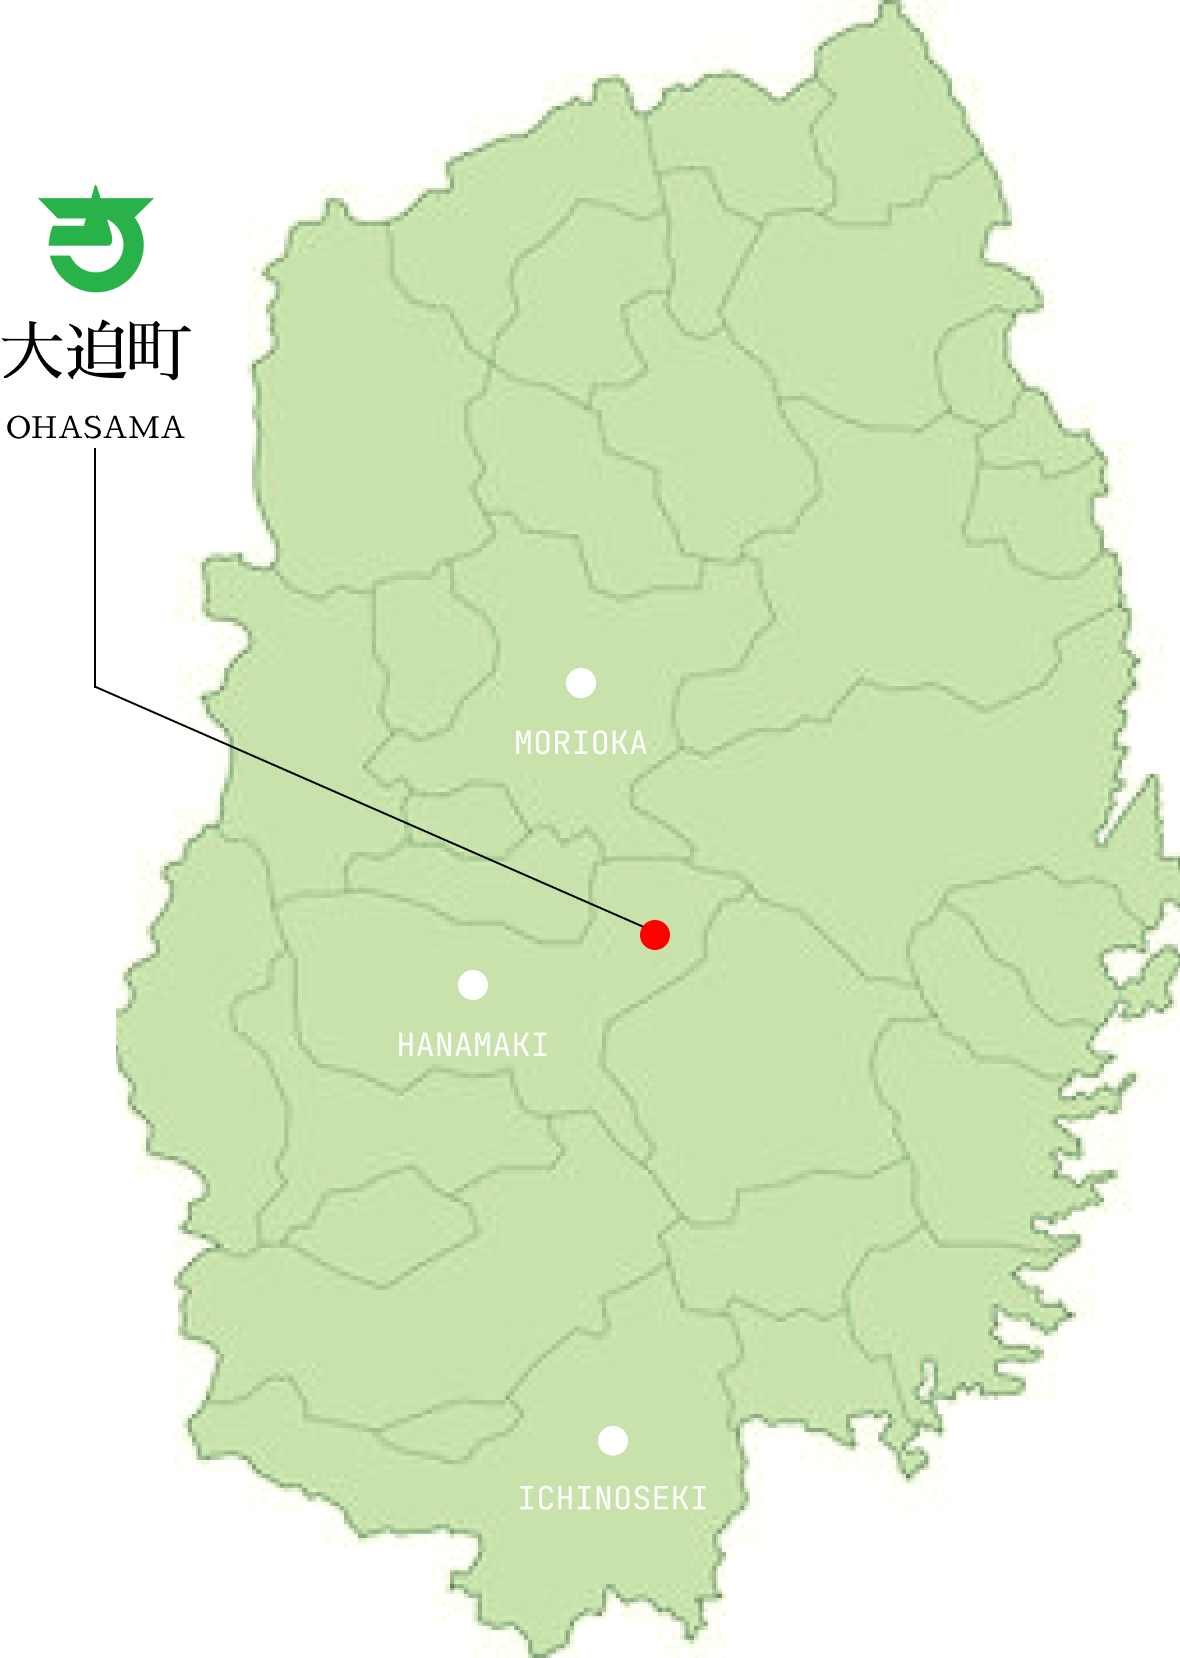
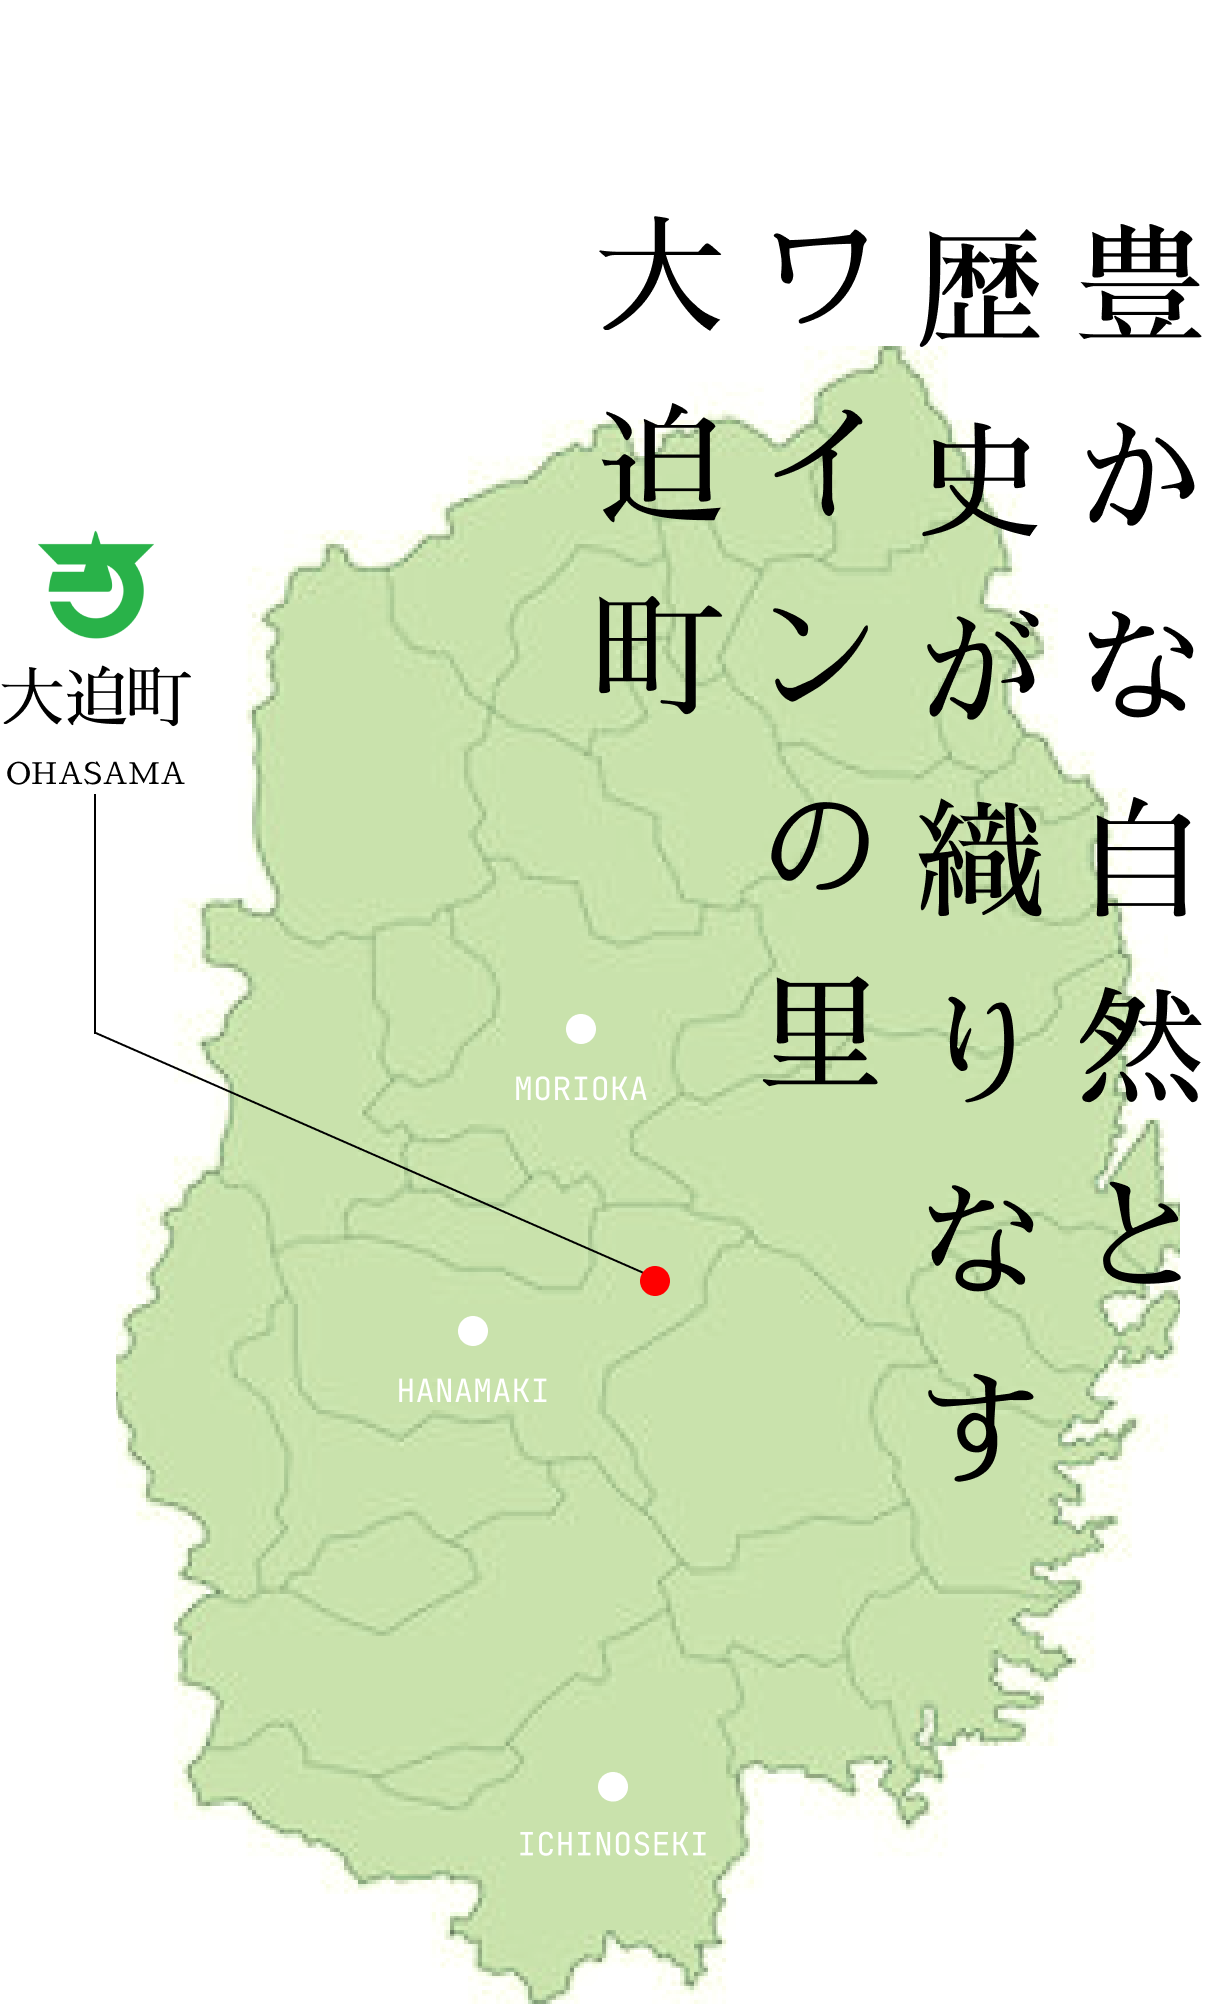
indexの追記

diff --git a/html/index.html b/html/index.html
@@ -5,9 +5,15 @@
     <meta charset="UTF-8">
     <meta name="viewport" content="width=device-width, initial-scale=1.0">
 
-    <link rel="stylesheet" href="/css/all-sytle.css">
-    <link rel="stylesheet" href="/css/index.css">
-    <link rel="stylesheet" href="/css/ham.style.css">
+    <link rel="stylesheet" href="../css/all-sytle.css">
+    <link rel="stylesheet" href="../css/index.css">
+    <link rel="stylesheet" href="../css/ham.style.css">
+
+    <!-- fontのリンク -->
+    <link rel="preconnect" href="https://fonts.googleapis.com">
+    <link rel="preconnect" href="https://fonts.gstatic.com" crossorigin>
+    <link href="https://fonts.googleapis.com/css2?family=Shippori+Mincho:wght@400;500;600;700;800&display=swap"
+        rel="stylesheet">
     <title>エーデルワイン・サポート</title>
 </head>
 
@@ -66,22 +72,55 @@
 
     </header>
 
+    <!-- 画像js -->
     <div class="animation_back">
         <img src="/img/back.png" alt="">
     </div>
 
+    <!-- 線 -->
+    <hr class="hr">
+
+    <!-- メイン１ -->
     <div class="main">
-        <div class="main_p">
-            <p>大迫町</p>
-            <p>ワインの里</p>
-            <p>歴史が織りなす</p>
-            <p>豊かな自然と</p>
+
+        <div class="main1_div">
+            <img src="../img/main/ohasama.png" width="500px">
+            <div class="main1_p">
+                <p><span class="span_tag">大迫町</span>（おおはさままち）は、<br>
+                    平成17年（2005年）まで岩手県<span class="span_tag">稗貫群</span>にあった町。<br> <br>
+                    岩手県内でも有数の<span class="span_tag">ワイン</span>の産地として知られ、<br>
+                    特産の葡萄を使った美味しいワインが楽しめます。<br><span class="span_tag">大迫ワイナリー</span>は、多くの観光客に訪れる価値のある <br>
+                    スポットとなっています。 <br><br>
+                    <span class="span_tag">豊かな自然</span>とそこで育まれてきた<span class="span_tag">文化</span>が共存する大迫町。<br>
+                    <span class="span_tag">ワイン</span>に<span class="span_tag">グルメ</span>、そして<span
+                        class="span_tag">アクティビティ</span>まで。<br>
+                    訪れるたびに<span class="span_tag">新たな魅力</span>に出会えるこの町に、ぜひお越しください。
+                </p>
+                <div class="main1_a">
+                    <p>◆ワインについて(<a href="https://edelwein.co.jp/">エーデルワイン</a>)</p>
+                </div>
+            </div>
         </div>
-        <img src="/img/main/Ohasama.png" class="imgup" width="15%">
-        <img src="/img/main/IWATE2.png" class="main1" width="25%">
+
+        <div class="main1_img">
+            <img src="../img/main/iwate.png" width="425px">
+        </div>
+
     </div>
 
+    <!-- メイン２ -->
+    <div class="main2">
+        <img src="../img/main2/ツル.png" width="320px">
+        <div class="youtube">
+            <iframe width="850px" height="450px"
+                src="https://www.youtube.com/embed/lDgLsZaklJc?si=oZNLzQQUAj5ctAPr&amp;start=220"
+                title="YouTube video player" frameborder="0"
+                allow="accelerometer; autoplay; clipboard-write; encrypted-media; gyroscope; picture-in-picture; web-share"
+                referrerpolicy="strict-origin-when-cross-origin" allowfullscreen></iframe>
+        </div>
+    </div>
 
+    <p class="title-border">目的で探す</p>
 
     <script type="text/javascript" src="/js/ham.js"></script>
 </body>

diff --git a/css/index.css b/css/index.css
@@ -1,5 +1,7 @@
 @charset "utf-8";
 
+
+/* 画像js */
 .animation_back {
     text-align: center;
 }
@@ -9,28 +11,86 @@
     height: 100%;
 }
 
+
+/* hrのリセットcss */
+hr {
+    height: 0;
+    margin: 0;
+    padding: 0;
+    border: 0;
+}
+
+.hr {
+    margin-top: 30px;
+    border-top: 9px double #B8A36C;
+}
+
+
+/**  main1  **/
 .main {
-    text-align: center;
-}
-
-.main p {
-    -ms-writing-mode: tb-rl;
-    writing-mode: vertical-rl;
-    font-size: 50px;
-}
-
-.main_p {
     display: flex;
 }
 
-.main1 {
-    position: relative;
+.main1_div img {
+    margin-top: 100px;
+    margin-left: 140px;
+    position: absolute;
 }
 
-.main img.imgup {
-    margin-top: 165px;
-    padding-left: 135px;
+.main1_p {
+    margin-top: 330px;
+    margin-left: 150px;
+}
+
+.main1_p p {
+    font-weight: 600;
+}
+
+.main1_a {
+    margin-top: 50px;
+}
+
+.main1_img {
+    margin-left: 80px;
+}
+
+.span_tag {
+    color: #63173B;
+}
+
+/* main2 */
+
+.main2 img {
+    margin-top: 110px;
     position: absolute;
-    transform: translate(-50%, -50%);
-    color: #fff;
+}
+
+/* main2のyoutube */
+.youtube {
+    position: relative;
+    padding-top: 140px;
+    text-align: center;
+}
+
+/* titleの線 */
+.title-border {
+    font-size: 33px;
+    display: flex;
+    align-items: center;
+    margin-top: 100px;
+}
+
+.title-border:before,
+.title-border:after {
+    content: "";
+    flex-grow: 1;
+    border-top: 9px double #B8A36C;
+}
+
+.title-border:before {
+    margin-right: 3rem;
+}
+
+.title-border:after {
+    margin-left: 3rem;
 }

diff --git a/html/hotel.html b/html/hotel.html
@@ -1,0 +1,24 @@
+<!DOCTYPE html>
+<html lang="ja">
+
+<head>
+    <meta charset="UTF-8">
+    <meta name="viewport" content="width=device-width, initial-scale=1.0">
+
+    <link rel="stylesheet" href="../css/all-sytle.css">
+    <link rel="stylesheet" href="../css/ham.style.css">
+
+
+    <!-- fontのリンク -->
+    <link rel="preconnect" href="https://fonts.googleapis.com">
+    <link rel="preconnect" href="https://fonts.gstatic.com" crossorigin>
+    <link href="https://fonts.googleapis.com/css2?family=Shippori+Mincho:wght@400;500;600;700;800&display=swap"
+        rel="stylesheet">
+    <title>Document</title>
+</head>
+
+<body>
+
+</body>
+
+</html>

diff --git a/html/glass.html b/html/glass.html
@@ -1,0 +1,23 @@
+<!DOCTYPE html>
+<html lang="ja">
+
+<head>
+    <meta charset="UTF-8">
+    <meta name="viewport" content="width=device-width, initial-scale=1.0">
+
+    <link rel="stylesheet" href="../css/all-sytle.css">
+    <link rel="stylesheet" href="../css/ham.style.css">
+
+    <!-- fontのリンク -->
+    <link rel="preconnect" href="https://fonts.googleapis.com">
+    <link rel="preconnect" href="https://fonts.gstatic.com" crossorigin>
+    <link href="https://fonts.googleapis.com/css2?family=Shippori+Mincho:wght@400;500;600;700;800&display=swap"
+        rel="stylesheet">
+    <title>Document</title>
+</head>
+
+<body>
+
+</body>
+
+</html>

diff --git a/html/restaurant.html b/html/restaurant.html
@@ -1,0 +1,23 @@
+<!DOCTYPE html>
+<html lang="ja">
+
+<head>
+    <meta charset="UTF-8">
+    <meta name="viewport" content="width=device-width, initial-scale=1.0">
+    <link rel="stylesheet" href="../css/all-sytle.css">
+    <link rel="stylesheet" href="../css/ham.style.css">
+
+
+    <!-- fontのリンク -->
+    <link rel="preconnect" href="https://fonts.googleapis.com">
+    <link rel="preconnect" href="https://fonts.gstatic.com" crossorigin>
+    <link href="https://fonts.googleapis.com/css2?family=Shippori+Mincho:wght@400;500;600;700;800&display=swap"
+        rel="stylesheet">
+    <title>Document</title>
+</head>
+
+<body>
+
+</body>
+
+</html>

diff --git a/css/all-sytle.css b/css/all-sytle.css
@@ -3,11 +3,13 @@
 * {
     padding: 0;
     margin: 0;
+    font-family: "Shippori Mincho", serif;
+    font-style: normal;
 }
 
+/* 背景画像 */
 html {
-    background-image: url(/img/背景.png);
-    font-family: 'Sawarabi Mincho', sans-serif;
+    background-image: url(../img/背景.png);
 }
 
 header {
